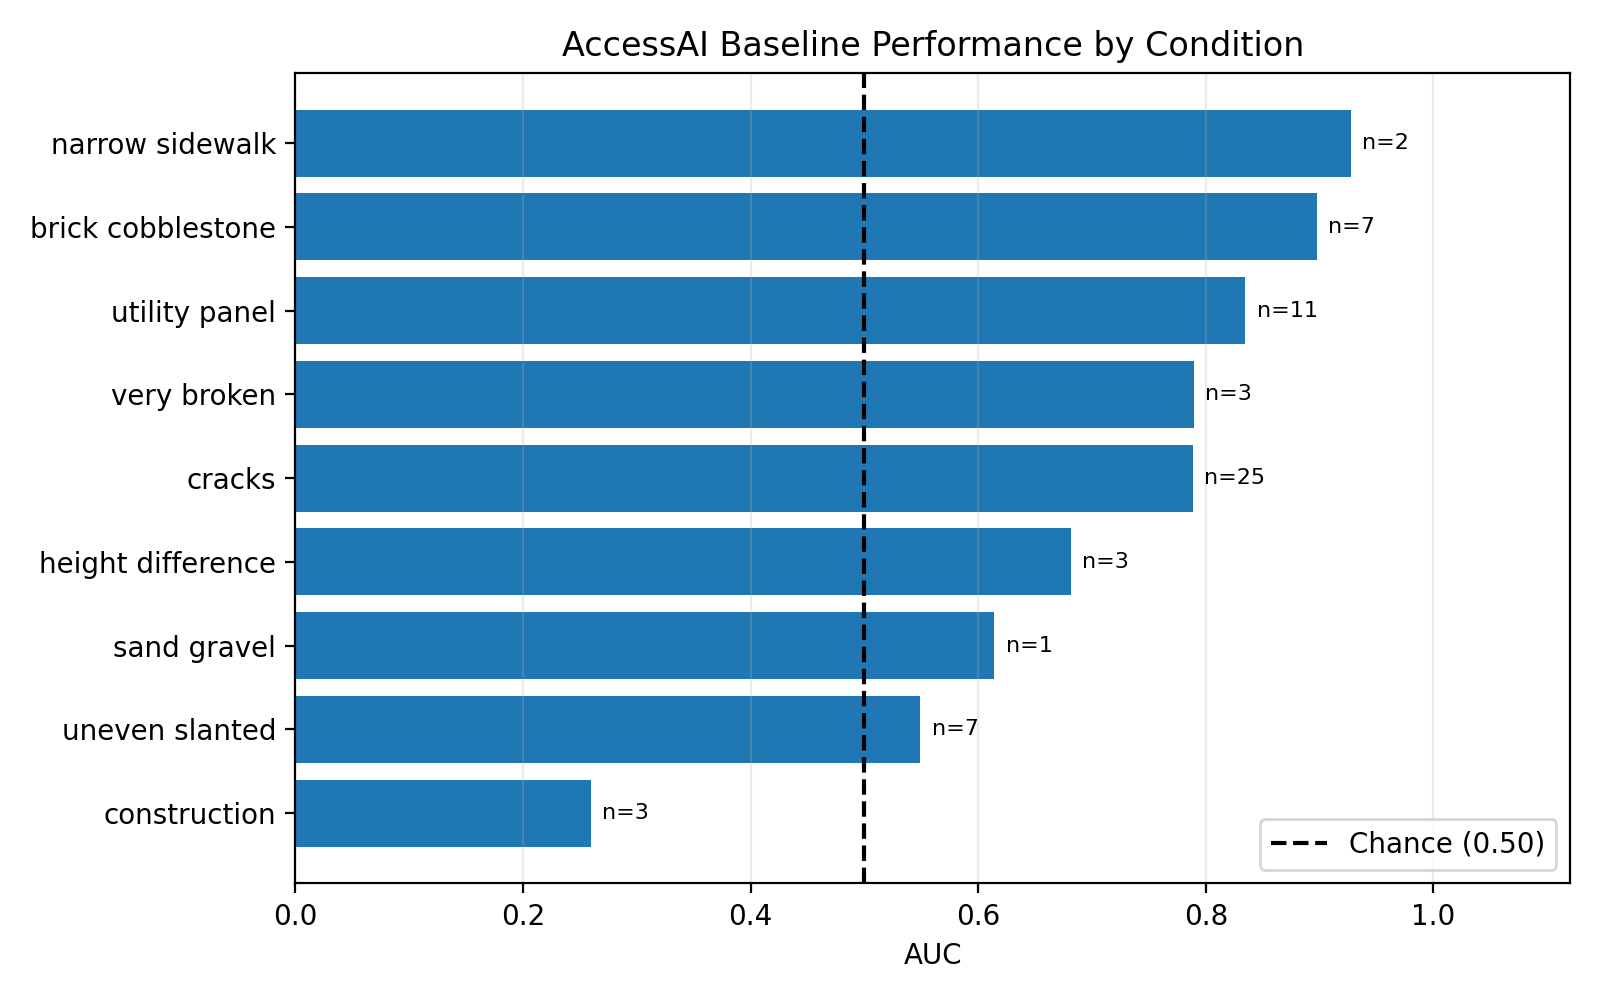
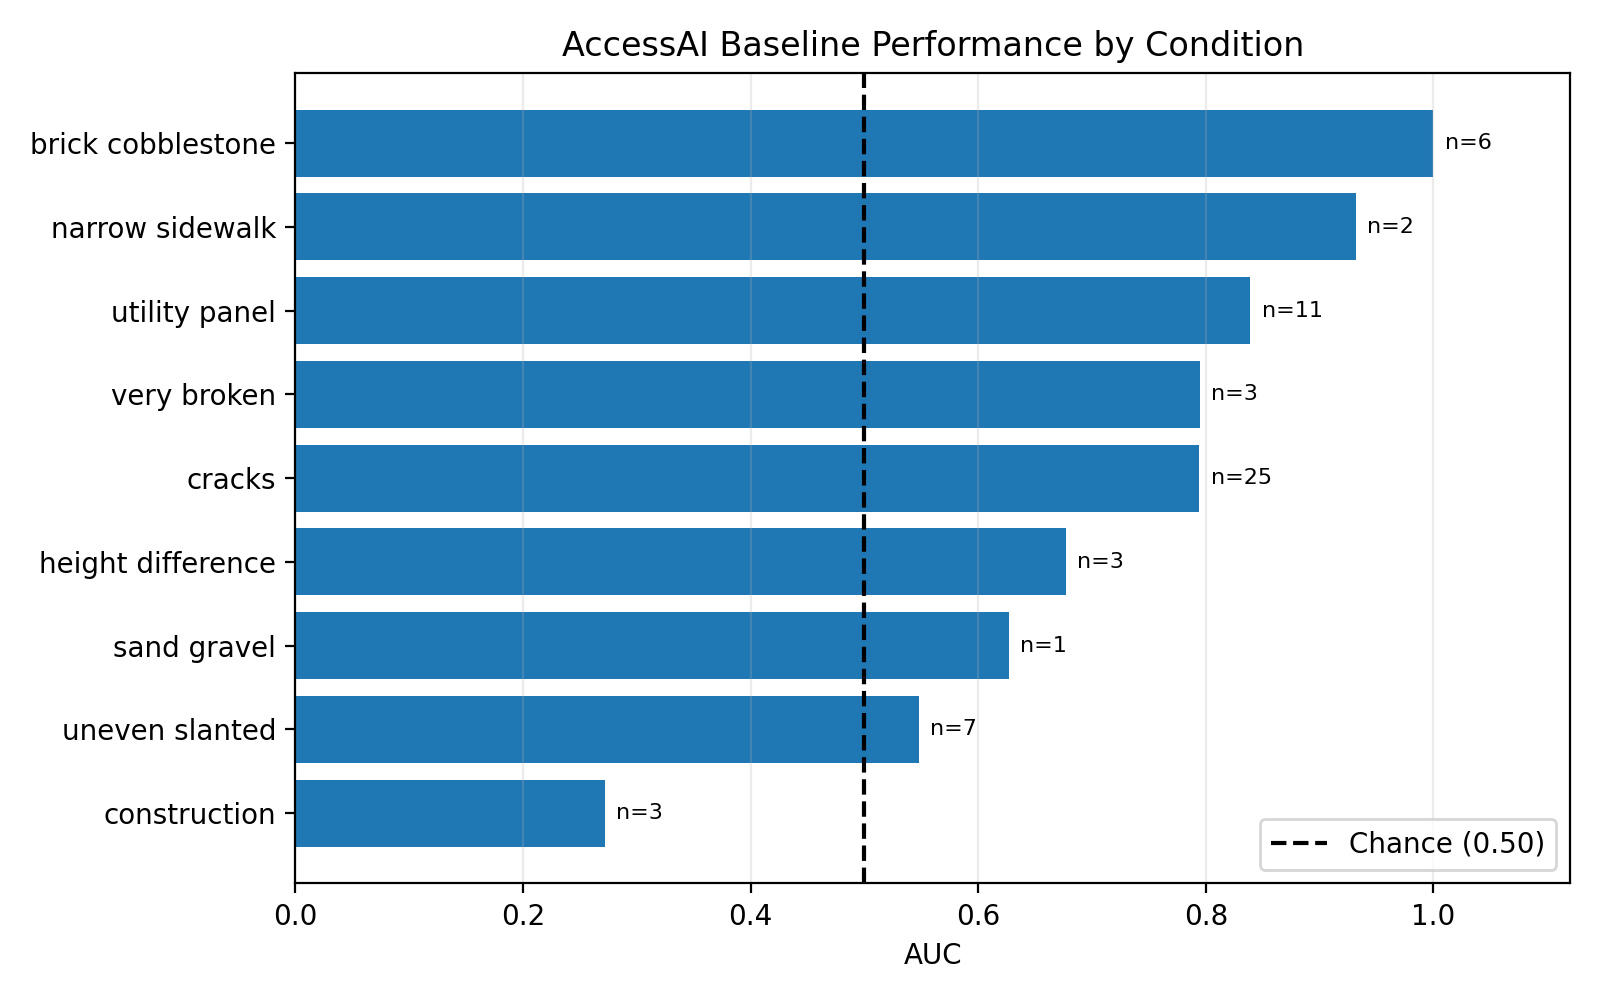
Add AccessAI model evaluation and results

diff --git a/notebooks/predict_accessai.py b/notebooks/predict_accessai.py
@@ -1,6 +1,5 @@
 import os
 import sys
-import csv
 from pathlib import Path
 from copy import deepcopy
 
@@ -15,7 +14,7 @@ ROOT = Path(__file__).resolve().parent.parent
 if not torch.cuda.is_available():
     os.environ["XFORMERS_DISABLED"] = "1"
 
-sys.path.insert(0, str(ROOT / "dinov2"))
+sys.path.insert(0, str(ROOT))
 from dinov2.models.vision_transformer import vit_base
 
 IMAGE_DIR = Path.home() / "Downloads" / "Sidewalk Photos"
@@ -47,7 +46,7 @@ class ResizeAndPad:
         return transforms.Pad(
             (w // 2, h // 2, w - w // 2, h - h // 2)
         )(image)
-    
+
 class Classifier(nn.Module):
     def __init__(self):
         super().__init__()
@@ -62,10 +61,11 @@ class Classifier(nn.Module):
             nn.ReLU(),
             nn.Linear(256, 13)
         )
+
     def forward(self, x):
         x = self.transformer(x)
         return self.classifier(self.transformer.norm(x))
-    
+
 device = torch.device("cpu")
 
 model = Classifier()
@@ -85,7 +85,6 @@ preprocess = transforms.Compose([
 ])
 
 MANUAL_LABELS = ROOT / "data/manual_labels.csv"
-
 manual = pd.read_csv(MANUAL_LABELS, dtype=str)
 
 photo_manifest = manual[["photo_id", "photo_filename"]].copy()
@@ -145,4 +144,3 @@ for photo_id, path in image_files:
 OUTPUT.parent.mkdir(parents=True, exist_ok=True)
 pd.DataFrame(results).to_csv(OUTPUT, index=False)
 print("Saved predictions to:", OUTPUT)
-    
